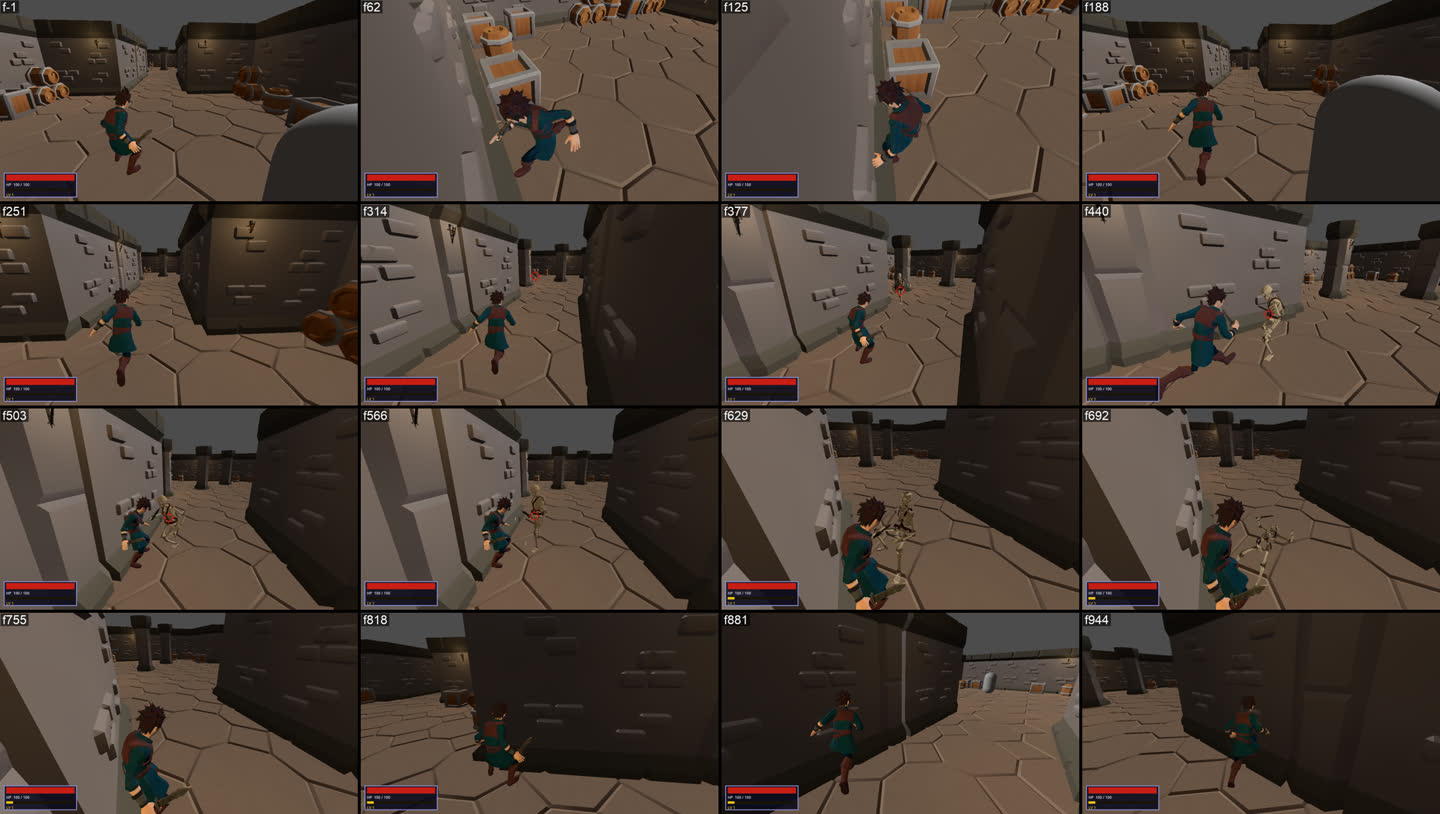
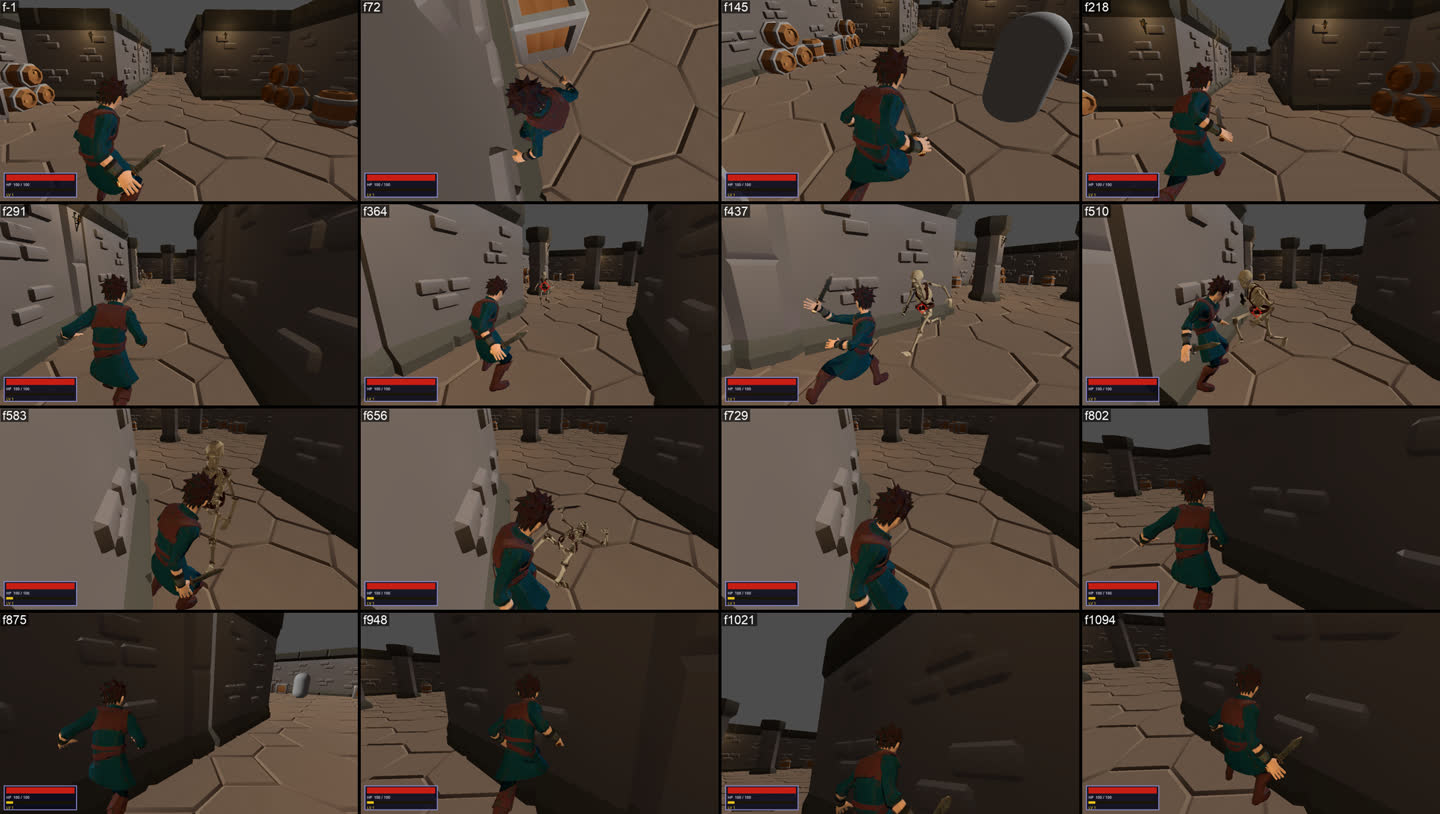
Record variant A as the settled framing
- Design bible §2: the user's choice of 2026-10-01; trial doc: A's results
  and the re-rendered contact sheet

diff --git a/docs/design-bible.md b/docs/design-bible.md
@@ -32,11 +32,11 @@ The third-person camera behind the player is the lens for everything else. Most 
 
 - **Modes, not one camera (settled):** the rig supports swappable modes: third-person over-the-shoulder now, first person later, as in Skyrim or Fallout 4. Aiming, lock-on and interaction use the **camera's** forward ray, never the character's facing, so they work in either mode.
   - First person is post-slice. It needs a first-person viewmodel (arms and weapon), and assets that hold up much closer than the 256 px texture budget assumes.
-- **Framing (settled; Witcher-like, decided by the user 2026-10-01):** the camera sits over the right shoulder, offset about 0.9 m to the side, with a pivot about 1.6 m above the floor, an arm of about 2.5 m, and a 70–75° FOV, so the player sits in the left third of the frame with a clear view past his right shoulder. Locked on, the arm may pull back a little to fit both. Looking up and down turns the **look**; the lens stays near shoulder height, within about 0.35 m of rest. **Under review (2026-10-01 playtest):** the user found this still reads as behind-and-above, not over the shoulder; three closer variants are rendered for the user to choose (`CameraRig.framing`, trial doc). **Current:** 0.9 m right, pivot and resting lens 1.6 m, 2.5 m arm (3.0 m locked), FOV 72°, look turned 4° right; pitch moves the lens 0.6 m per radian, capped at ±0.35 m (`scenes/player/CameraRig.gd`).
+- **Framing (settled; over the shoulder, variant A, decided by the user 2026-10-01):** the lens sits about 1.55 m above the floor, about 0.7 m right of the player and 1.6 m behind (2.2 m when locked on, to fit both), with a 65° FOV, looking forward past his right shoulder; he sits in the left third of the frame. Looking up and down turns the **look**; the lens stays near shoulder height, within about 0.35 m of rest. Close in (a short arm) the shoulder offset tucks in, and the look turns only as far as it must to keep his head and torso in frame. **Current:** as above (`scenes/player/CameraRig.gd`, `framing = A_MEDIUM`; the earlier framing and variants B and C stay selectable by that export for comparison in play).
   - An over-the-shoulder offset is what stops the player model hiding the enemy at melee range (`cam_melee_occlusion`).
 - **Collision:** the spring arm uses a sphere probe with a margin, not a ray, and eases in and out.
   - The player must stay fully in frame (`cam_player_in_frame`), and wall must never fill the frame (`cam_wall_fill`).
-  - When the arm is squeezed shorter than 60% of its length, the camera may rise, but not clip into the player.
+  - When the arm is squeezed shorter than 80% of its length, the camera may rise, but not clip into the player.
   - **Current:** a 0.3 m sphere probe. A probe that starts touching a wall doesn't move, and each move stops 5 cm short of its hit (fixed 2026-10-01: a touching start passed through walls).
 - **Lock-on (Witcher model):**
   - A reticle on the target, always visible while locked.

diff --git a/docs/trials/phantom-camera.md b/docs/trials/phantom-camera.md
@@ -188,3 +188,20 @@ The playtest read A as a zoomed-out third person. The user chose Witcher-like fr
 
 - At its extremes, A's full look-up and C's full look-down fail `cam_player_in_frame`: his whole head and torso don't fit that close. If a tight variant is chosen, the target may need redefining (head and shoulders only?).
 - In the locked shots, the levy is about 11 m off; at that range all four keep both in frame.
+
+## Variant A adopted (user, 2026-10-01)
+
+`CameraRig.framing` now defaults to A_MEDIUM: lens about 1.55 m, 0.7 m right, 1.6 m arm (2.2 m locked), FOV 65°. CURRENT, B and C stay selectable for comparison in play.
+- A's close arm needed four changes, and with them every target holds, so `cam_player_in_frame` keeps its head-and-torso meaning and the pitch range is unchanged:
+  - the horizontal framing is worked out in camera space at the final pitch (a pitched look brings near corners in sideways);
+  - a short arm tucks the shoulder offset in, up to 60% of it;
+  - the squeeze starts at 80% of the arm;
+  - the arm eases back out at 10/s.
+- Results (in frame / wall fill / occlusion / both locked):
+  - `levy_1v1_passive`: 1.0 / 0.000 / 0.112 / 1.0
+  - `levy_1v1_sensible`: 1.0 / 0.389 / 0.036 / 0.971
+  - `central_room_pull`: 1.0 / 0.188
+  - `tomb_hall_group`: 1.0 / 0.188
+  - `crypt_trial_walk`: 1.0 / 0.293
+  - `camera_stress`: 1.0 / 0.427 / 0.016 / 1.0 (its full look-up and look-down stay in frame)
+- The contact sheet `phantom-camera/camera_stress_A-own-rig.jpg` is re-rendered with A.
